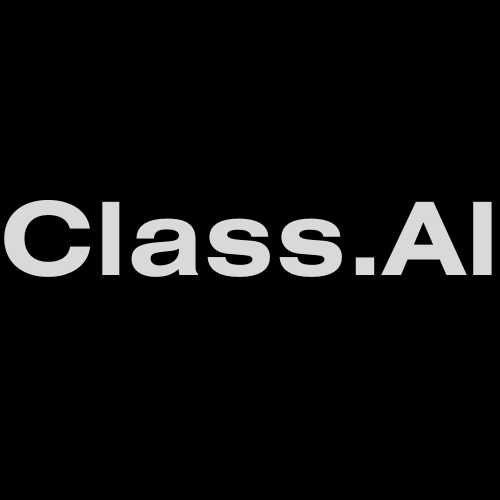
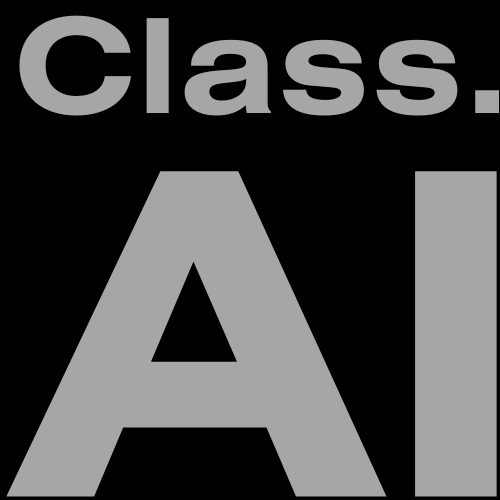
client: home page

diff --git a/client/src/app/home/page.tsx b/client/src/app/home/page.tsx
@@ -1,12 +1,18 @@
 "use client";
 import Navbar from "../components/Navbar";
+import { useRouter } from "next/navigation";
 import { CiCirclePlus } from "react-icons/ci";
 import { useState } from "react";
-import { FiFileText } from "react-icons/fi";
-import { bgColors } from "@/utils/utils";
+import { FiPlusCircle } from "react-icons/fi";
+import { bgColors, proficiencyLevels } from "@/utils/utils";
 
 export default function Home() {
 	const [classes, setClasses] = useState([]);
+	const [prompt, setPrompt] = useState("");
+	const [proLevel, setProLevel] = useState(0);
+
+	const router = useRouter();
+
 	return (
 		<>
 			<Navbar />
@@ -14,13 +20,18 @@ export default function Home() {
 				<div className="w-full h-full p-5 px-10">
 					<p className="text-2xl my-4 mb-7 font-semibold">My classes</p>
 					<div className="flex flex-wrap w-full">
-						<div className="flex flex-col items-center justify-center w-full h-full">
-							<CiCirclePlus className="h-40 w-40 mb-2" />
-							<p className="font-semibold text-xl">New Class</p>
+						<div
+							onClick={() => (document.getElementById("new_class_modal") as any).showModal()}
+							className="hover:shadow-2xl duration-100 cursor-pointer border-2 flex flex-col min-h-[400px] min-w-[350px] mb-10 mr-10 rounded-3xl shadow-lg overflow-hidden"
+						>
+							<div className="flex flex-col items-center justify-center w-full h-full">
+								<CiCirclePlus className="h-40 w-40 mb-2" />
+								<p className="font-semibold text-xl">New Form</p>
+							</div>
 						</div>
 					</div>
-					{classes?.map((class, index) => {
-						return (
+					{/* {classes?.map((class, index) => {
+						return 
 							<section
 								key={index}
 								translate="translateY(10px)"
@@ -51,10 +62,50 @@ export default function Home() {
 									</div>
 								</div>
 							</section>
-						);
-					})}
+						
+					})} */}
 				</div>
 			</main>
+			{/* Modals */}
+			{/* New Class modal */}
+			<dialog id="new_class_modal" className="modal">
+				<div className="modal-box max-w-xl">
+					<h3 className="flex items-center font-bold text-2xl">
+						<FiPlusCircle className="mr-2" /> Create class
+					</h3>
+					<textarea value={prompt}
+						onChange={(x) => setPrompt(x.target.value)}
+						placeholder="Tell us about your class..."
+						className="my-5 textarea textarea-bordered textarea-lg min-h-[250px] w-full max-w-3xl"
+					></textarea>
+					<h3 className="my-5 font-bold">Proficiency level</h3>
+					<div className="row" style={{ marginBottom: "50px" }}>
+						<input
+							type="range"
+							value={proLevel}
+							min={0}
+							max="4"
+							className="range"
+							step="0"
+							onChange={(e) => setProLevel(parseInt(e.target.value))}
+						/>
+						<div className="w-full flex justify-between text-xs px-2">
+							<span>{proficiencyLevels[0]}</span>
+							<span>|</span>
+							<span>|</span>
+							<span>|</span>
+							<span>{proficiencyLevels[4]}</span>
+						</div>
+					</div>
+					<button className="btn w-full btn-primary" onClick={() => router.push("/class/[classId]")}>
+						Create
+					</button>
+				</div>
+				<form method="dialog" className="modal-backdrop">
+					<button>close</button>
+				</form>
+			</dialog>
+			{/* New Class modal end */}
 		</>
 	);
 }

diff --git a/client/src/app/components/Navbar.tsx b/client/src/app/components/Navbar.tsx
@@ -2,6 +2,7 @@
 import Link from "next/link";
 import { useRouter } from "next/navigation";
 import { AiFillCheckCircle } from "react-icons/ai";
+import { MdLogout } from "react-icons/md";
 
 function Navbar() {
 	const router = useRouter();
@@ -13,36 +14,42 @@ function Navbar() {
 	return (
 		<div className="pb-[80px]">
 			<div className="z-50 fixed navbar backdrop-filter backdrop-blur-lg bg-opacity-30  bg-base-100 flex justify-between top-30 z-54">
-				<Link href={"/home"} className="btn btn-ghost normal-case font-bold text-2xl">
-					Dashboard
+				<Link href={"/home"} className="btn btn-ghost normal-case font-black text-3xl">
+					Class.AI
 				</Link>
 				<div className="m-2">
+					<button
+						className="btn btn-primary mr-5 text-[#ffd700]"
+						onClick={() => (document.getElementById("premium_modal") as any).showModal()}
+					>
+						Premium
+					</button>
 					<button className="btn btn-primary mr-5" onClick={handleLogout}>
-						Log out
+						Log out <MdLogout />
 					</button>
 				</div>
 			</div>
 			{/* Premium Modal */}
-			{/* <dialog id="my_modal_x" className="modal">
+			<dialog id="premium_modal" className="modal">
 				<div className="modal-box">
 					<h3 className="font-bold text-2xl">🚀 Go Premium!</h3>
 					<p className="py-4 font-semibold text-xl">Enjoy premium features for just $49/month!</p>
 					<div className="flex items-center text-xl my-7">
-						<AiFillCheckCircle className="mr-2 text-green-500" /> Create unlimited forms
+						<AiFillCheckCircle className="mr-2 text-green-500" /> Create unlimited classes
 					</div>
 					<div className="flex items-center text-xl my-7">
-						<AiFillCheckCircle className="mr-2 text-green-500" /> Accept response from unlimited users
+						<AiFillCheckCircle className="mr-2 text-green-500" /> Premium feature 2
 					</div>
 					<div className="flex items-center text-xl my-7">
-						<AiFillCheckCircle className="mr-2 text-green-500" /> File upload size limit upto 1GB
+						<AiFillCheckCircle className="mr-2 text-green-500" /> Premium feature 3
 					</div>
 					<div className="flex items-center text-xl my-7">
-						<AiFillCheckCircle className="mr-2 text-green-500" /> Accept unlimited amount of crypto payment
+						<AiFillCheckCircle className="mr-2 text-green-500" /> Premium feature 4
 					</div>
 					<div className="modal-action mt-10 flex justify-center ">
 						<button
 							className={"btn btn-lg btn-primary w-full"}
-							onClick={() => document.getElementById("my_modal_x").close()}
+							onClick={() => (document.getElementById("my_modal_x") as any).close()}
 						>
 							Upgrade now 🚀
 						</button>
@@ -51,7 +58,7 @@ function Navbar() {
 				<form method="dialog" className="modal-backdrop">
 					<button>close</button>
 				</form>
-			</dialog> */}
+			</dialog>
 		</div>
 	);
 }

diff --git a/client/src/utils/utils.ts b/client/src/utils/utils.ts
@@ -29,4 +29,15 @@ const bgColors = {
 	z: ["#f12711", "#f5af19"],
 };
 
-export { serverURL, bgColors };
+const proficiencyLevels = ["Noob", "Beginner", "Intermediate", "Advanced", "Expert", "Pro"];
+
+const proficiencyPrompt = {
+	0: "5 year old",
+	1: "beginner",
+	2: "high school student",
+	3: "college student",
+	4: "graduate student",
+	5: "expert",
+};
+
+export { serverURL, bgColors, proficiencyLevels, proficiencyPrompt };
